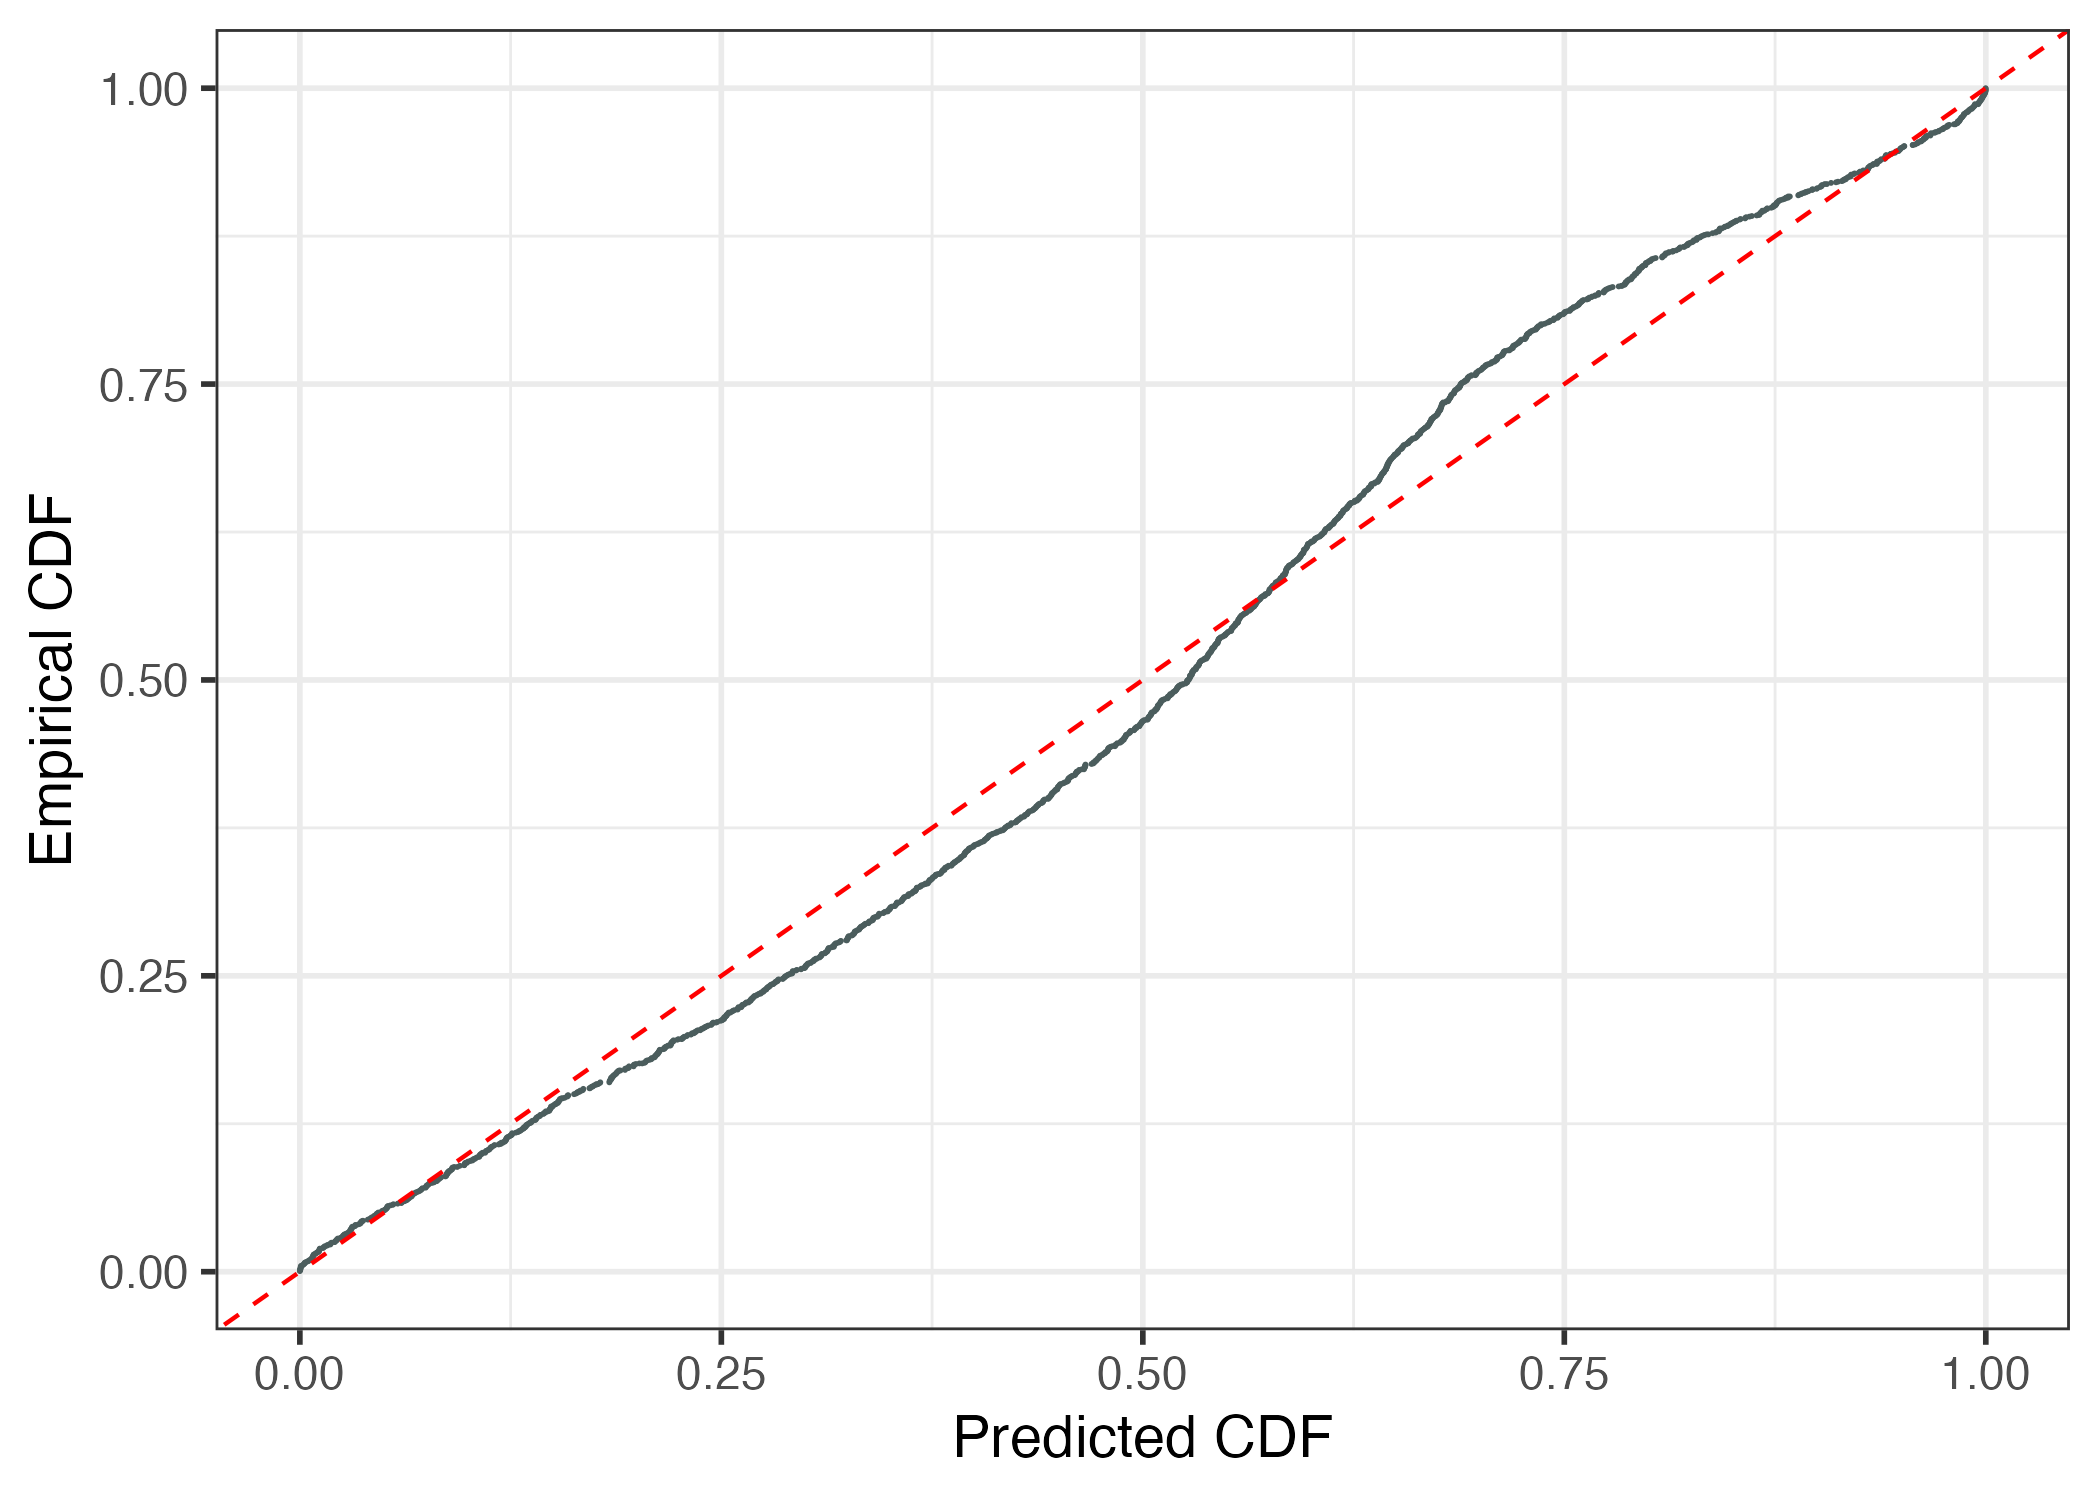
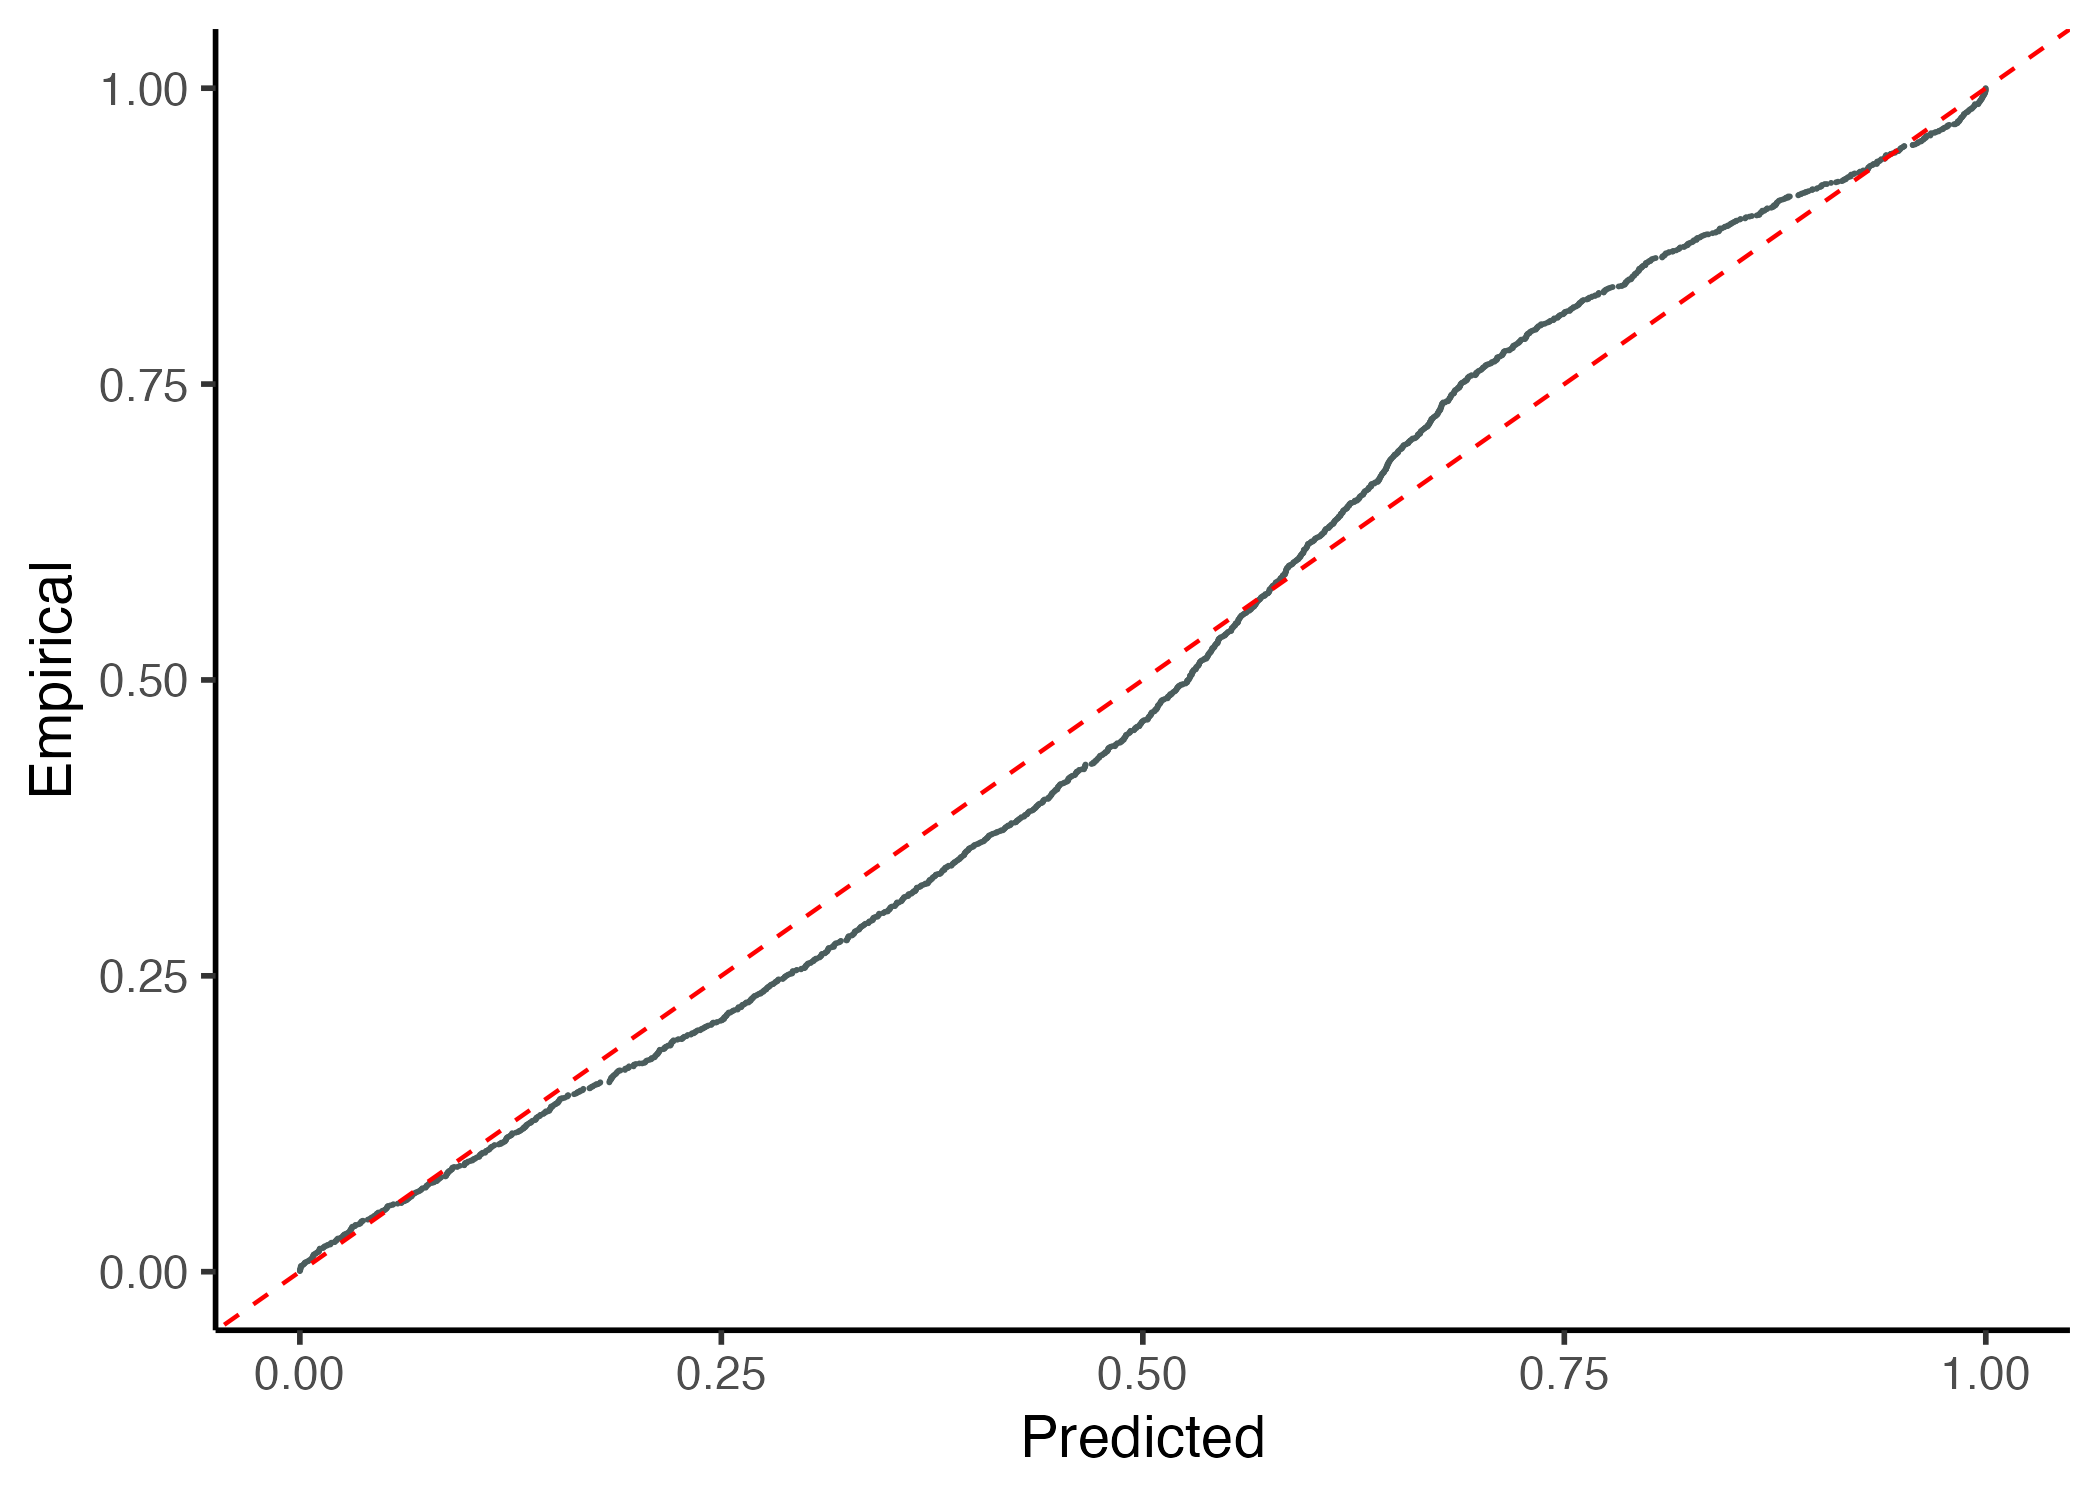
novo readme

Changed region(s): [[0.0929, 0.8592, 0.9909, 0.8899], [0.0, 0.3376, 0.031, 0.5831], [0.4645, 0.9206, 0.6193, 0.982]]

diff --git a/README.md b/README.md
@@ -176,12 +176,12 @@ hypothesis testing using the Kolmogorov-Smirnov test, conducted with the
 `ks.test()` function from the stats package.
 
 It is also to use other visualization function of the package with the
-`gg_QQ_global`. This graph shows the cumulative predictive distribution
+`gg_CD_global`. This graph shows the cumulative predictive distribution
 in the x-axis versus the empirical cumulative distribution and require
 four parameters.
 
 ``` r
-gg_QQ_global(pit,
+gg_CD_global(pit,
              y_cal, 
              y_hat, 
              MSE_cal)
@@ -225,9 +225,9 @@ refer to documentation to learn more.
 
 ``` r
 gg_PIT_local(pit_local, 
-             pal="Purples",
-             alpha=0.9,
-             facet=T)
+             pal = "Purples",
+             alpha = 0.9,
+             facet = T)
 ```
 
 <img src="man/figures/plot2PL.png" width="80%" style="display: block; margin: auto;" />
@@ -242,8 +242,8 @@ each section exhibits unique calibration needs.
 Alternatively you can observe the local miscalibration in the QQ-graph.
 
 ``` r
-gg_QQ_local(pit_local)
-gg_QQ_local(pit_local, facet=T)
+gg_CD_local(pit_local)
+gg_CD_local(pit_local, facet=T)
 ```
 
 <img src="man/figures/plotQL1.png" width="80%" style="display: block; margin: auto;" /><img src="man/figures/plotQL2.png" width="80%" style="display: block; margin: auto;" />
